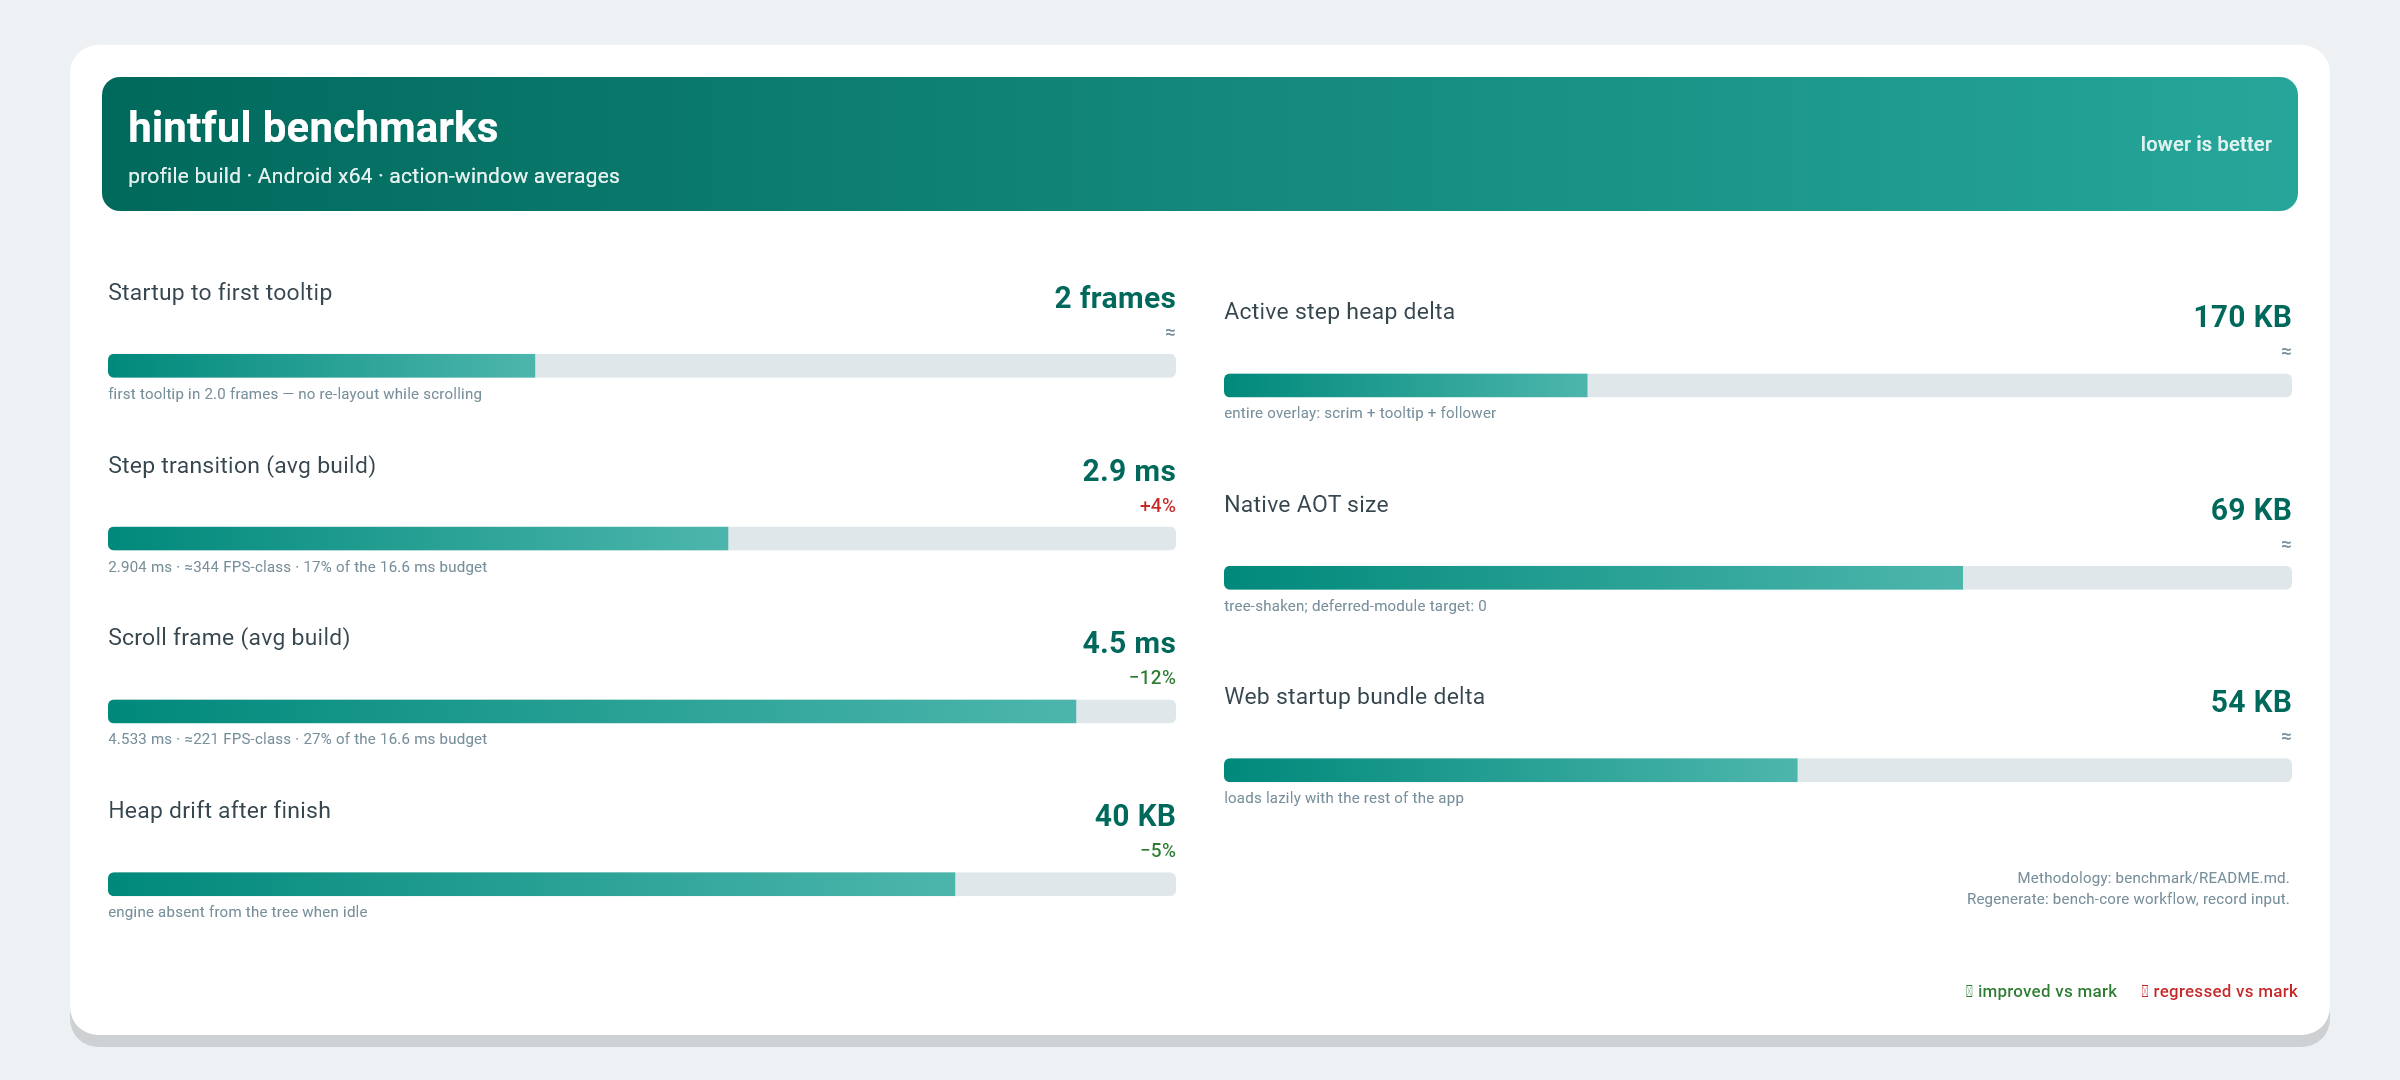
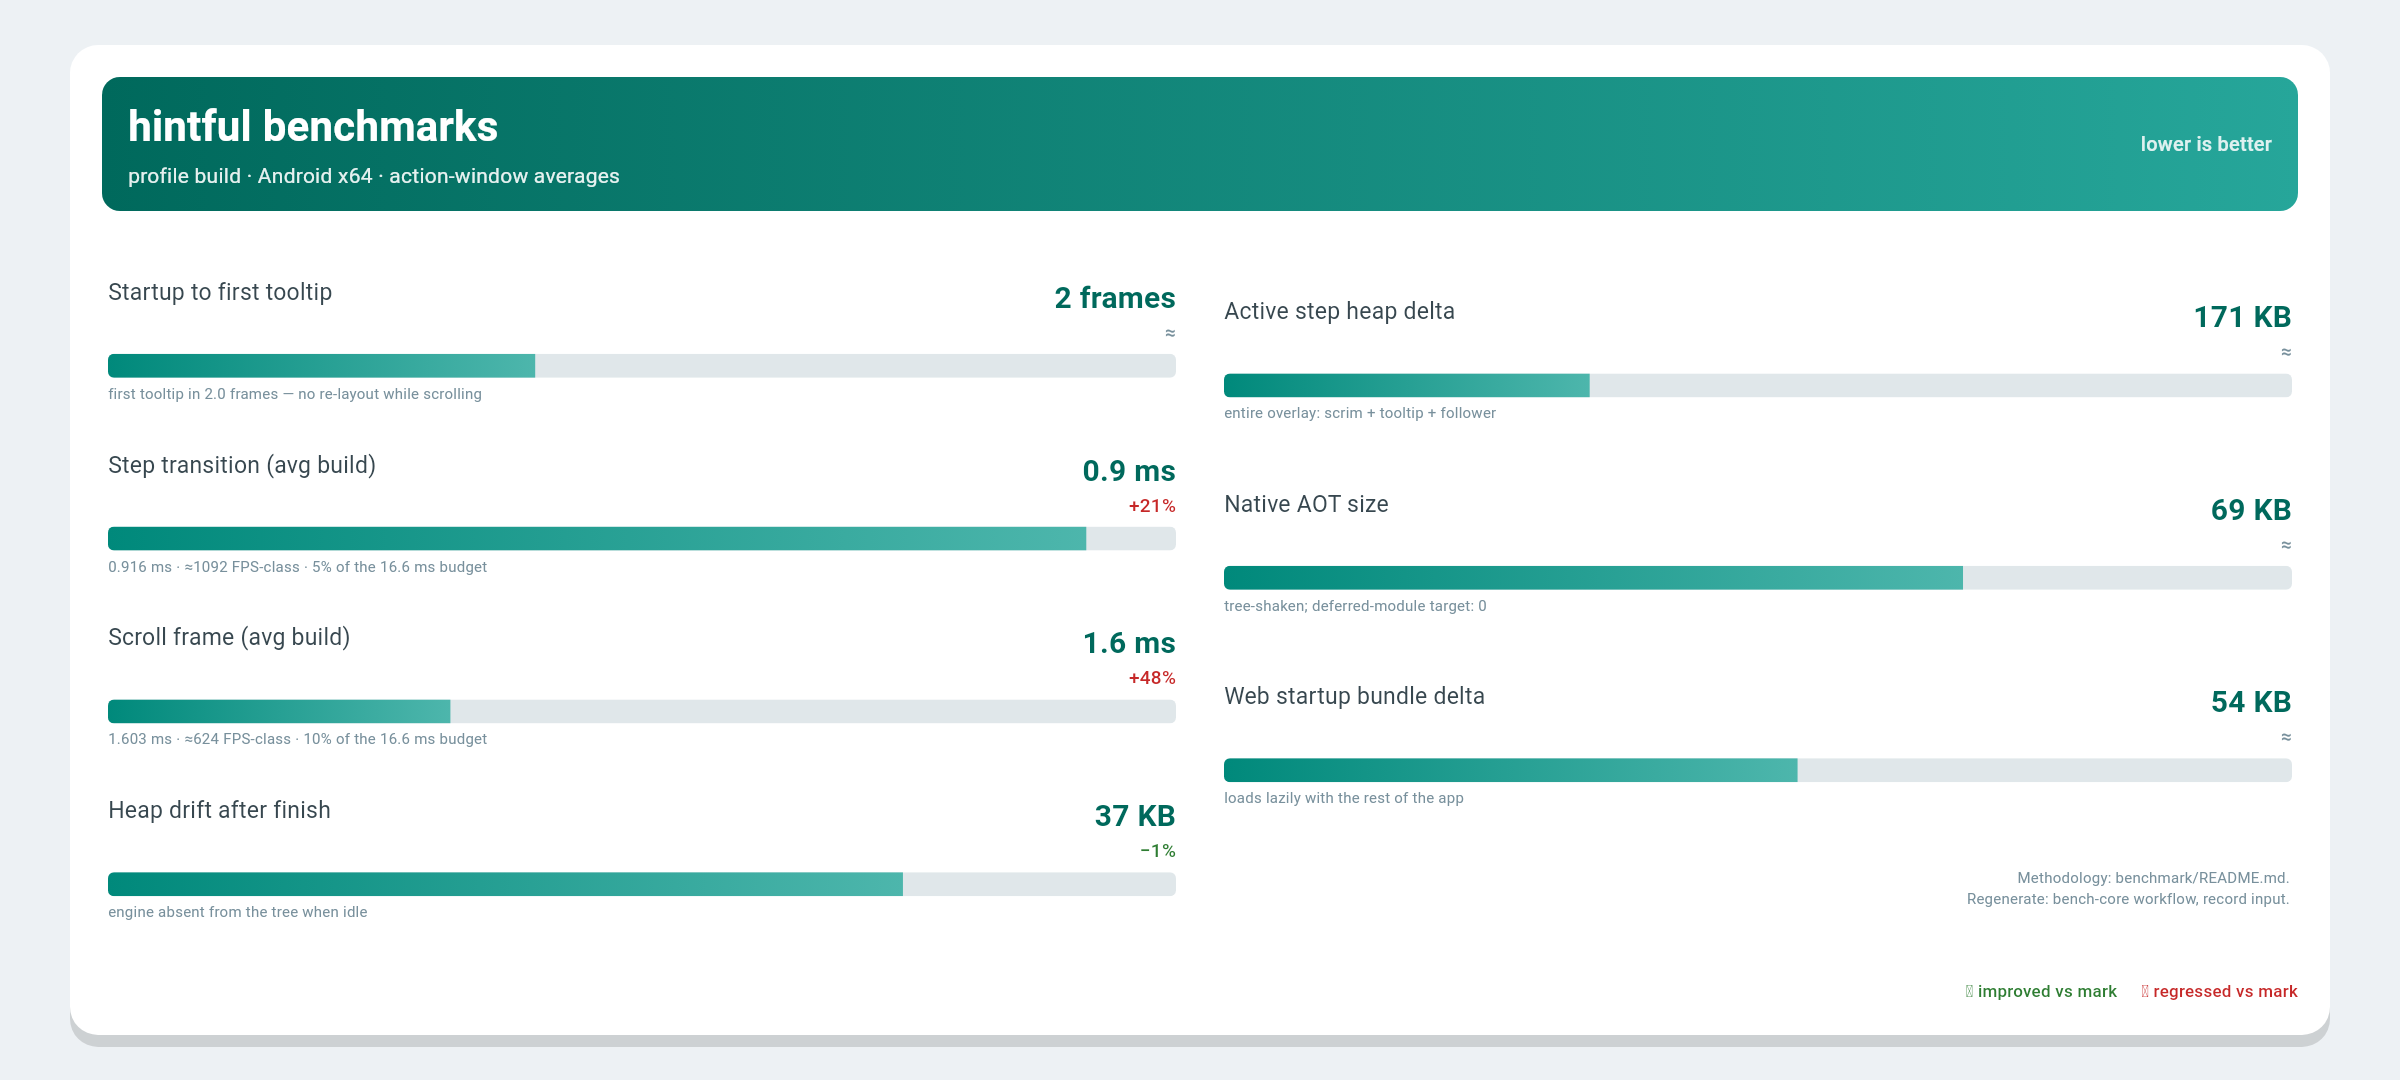
bench: publish results (goldens + metrics card)

diff --git a/README.md b/README.md
@@ -179,11 +179,11 @@ Profile build, Android emulator, action-window averages. Methodology:
 `benchmark/README.md`.
 
 | Metric | hintful |
-|---|
+|---|---|
 | Startup to first tooltip | 2 frames |
-| Step transition (avg build) | 755 µs |
-| Scroll frame (avg build) | 1082 µs |
-| Heap drift after finish | 38 KB |
+| Step transition (avg build) | 916 µs |
+| Scroll frame (avg build) | 1603 µs |
+| Heap drift after finish | 37 KB |
 | Active step heap delta | 171 KB |
 | Native AOT size | 69 KB |
 | Web startup bundle delta | 54 KB |
@@ -192,5 +192,5 @@ Head-to-head runs against showcaseview / tutorial_coach_mark will add their colu
 
 ![hintful benchmark metrics](docs/hint_metrics.png)
 
-_Recorded 2026-09-02 13:29 UTC. Regenerate: dispatch the `bench-core` workflow with `record`._
+_Recorded 2026-09-02 15:15 UTC. Regenerate: dispatch the `bench-core` workflow with `record`._
 <!-- bench:end -->
